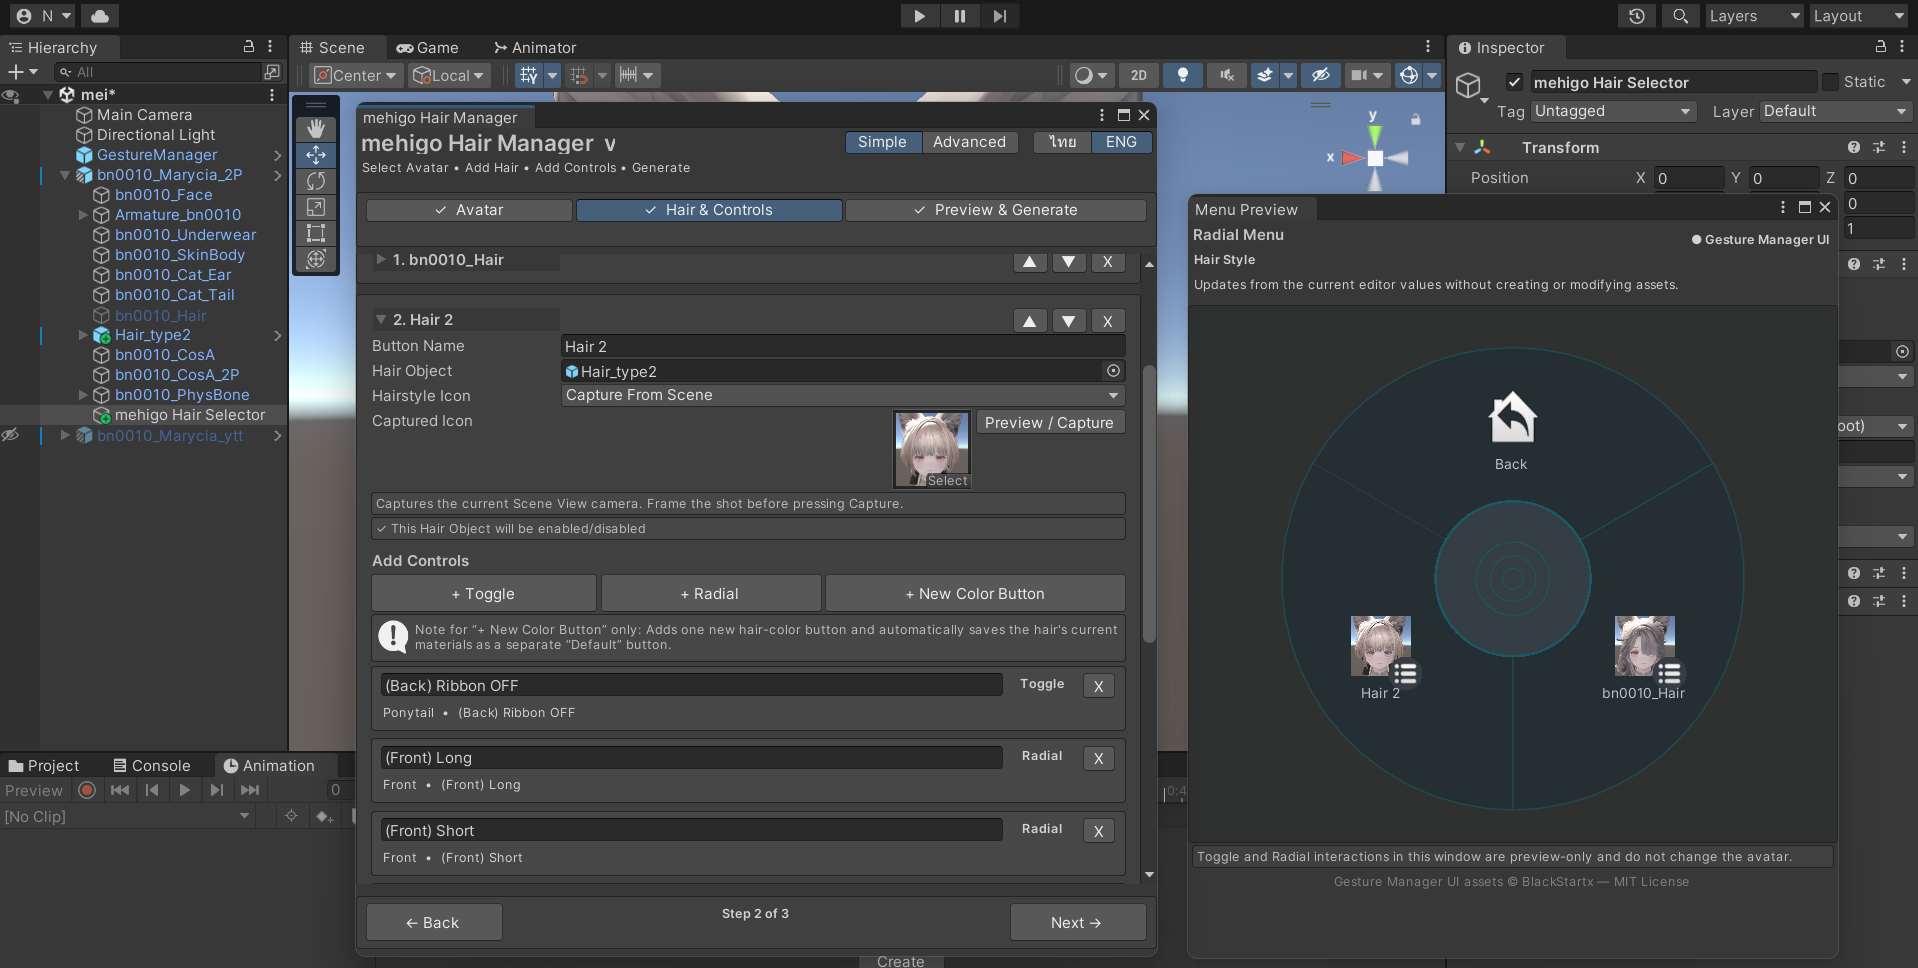
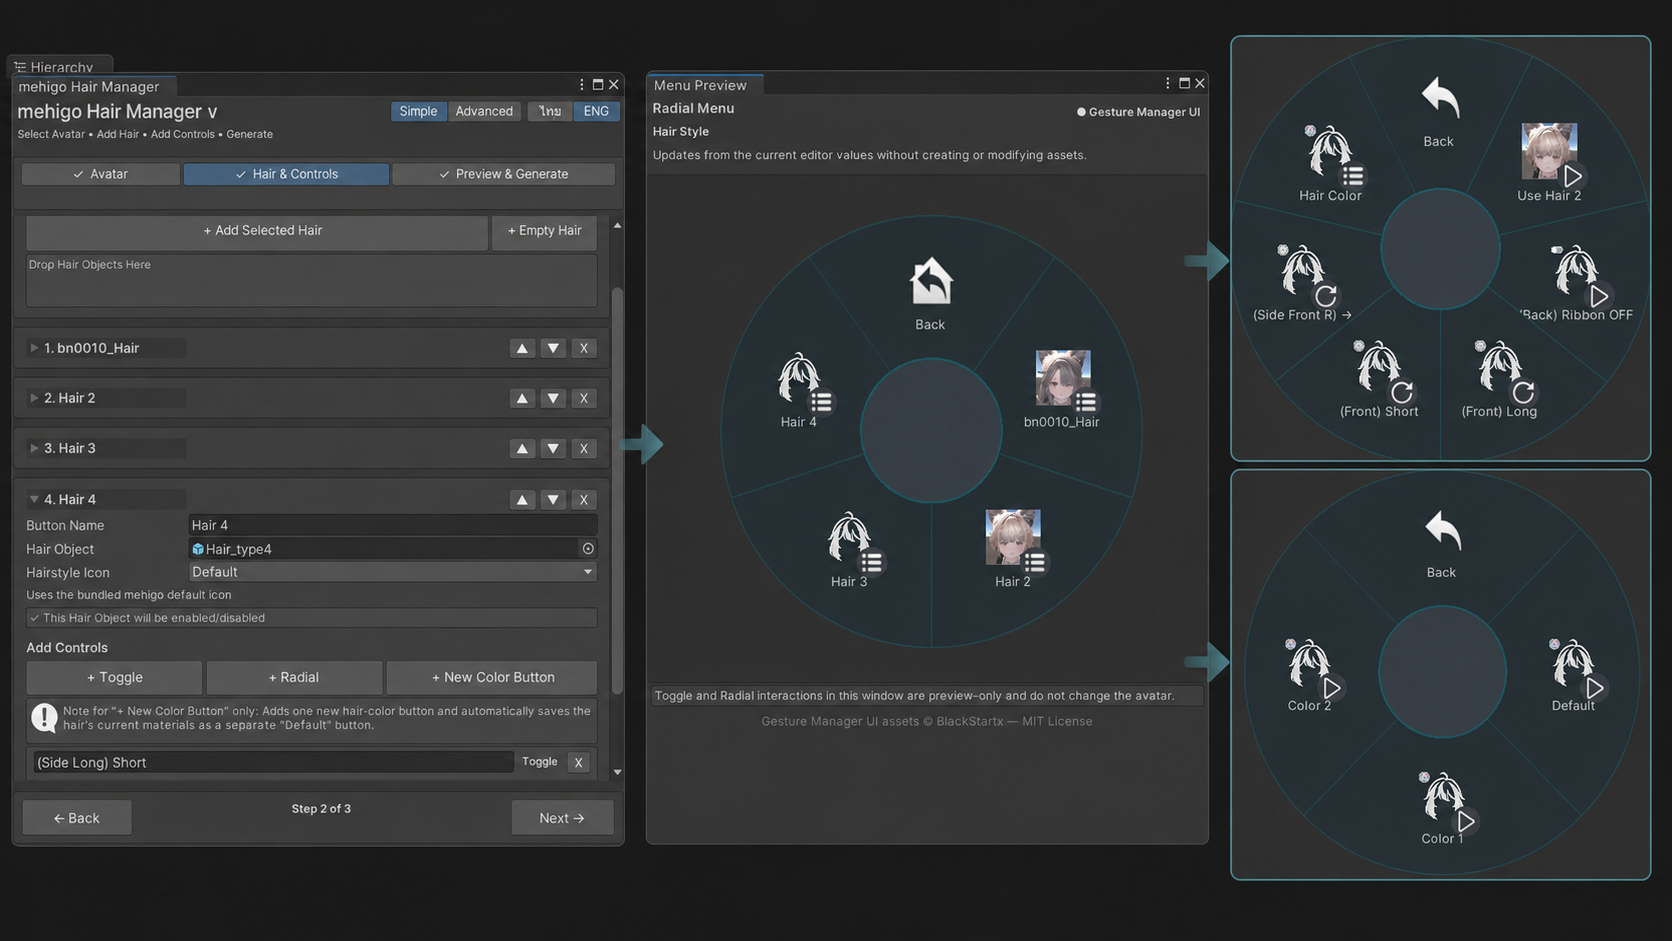
Update README overview image

diff --git a/README.md b/README.md
@@ -28,10 +28,6 @@ Advanced Mode remains available for custom activation behavior, linked objects, 
 
 ![mehigo Hair Manager Simple Mode with real-time Menu Preview](https://raw.githubusercontent.com/mehigosleep/mehigo-hair-manager/main/docs/images/overview-simple-mode-editor.png)
 
-### In-Unity test with Gesture Manager
-
-![Generated hair controls tested with Gesture Manager in Unity](https://raw.githubusercontent.com/mehigosleep/mehigo-hair-manager/main/docs/images/overview-gesture-manager-test.png)
-
 ## Features
 
 - Simple Mode with separate Avatar → Hair & Controls → Preview & Generate pages
